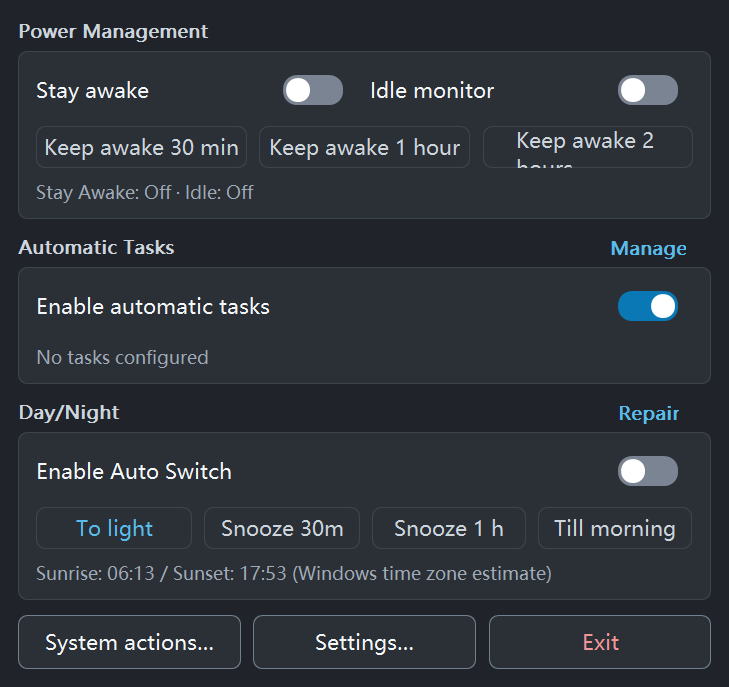
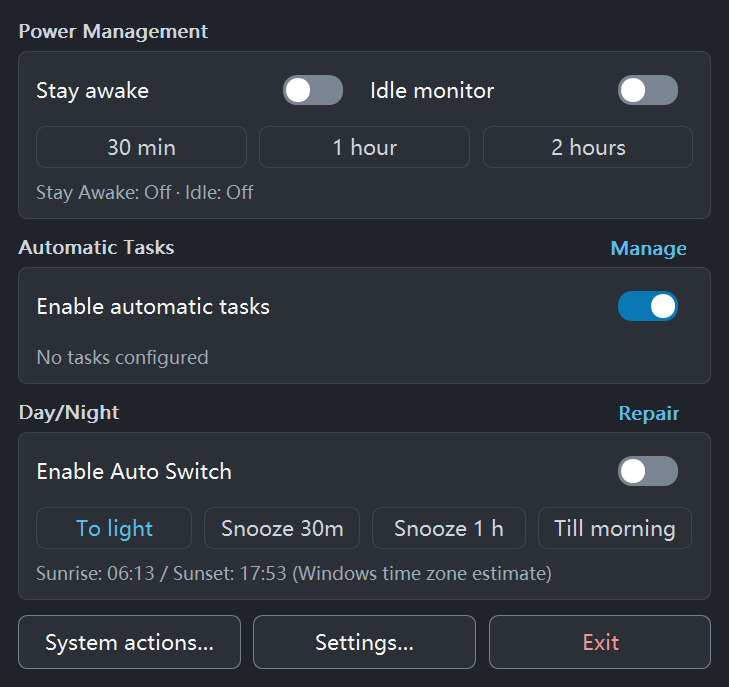
Fit UI strings on wide system fonts and polish both locales
Chinese Windows substitutes Microsoft YaHei UI for the message font,
whose Latin glyphs are much wider than Segoe UI, so several English
labels overflowed their fixed-width controls: the longest timed
stay-awake chip wrapped to two clipped lines, chip 1 sat at zero
margin, the settings nav tab ellipsized, the appearance restore
buttons wrapped, and every update-phase caption exceeded the
check-updates button.

- Timed chips drop the redundant "Keep awake" prefix; the update
  button widens 132->164 px so "Downloading 100%" fits; nav renames
  to "Notifications"; restore buttons to "Restore previous/default
  look..."; the appearance row label to "Image".
- Full wording pass over both locales: tooltips reference the real
  "No change" option instead of "leave empty"/"No linkage", drop
  developer jargon (overlay, armed, steer), fix the task-manager
  name clash, unify ellipses, checkbox noun style, hotkey verbs,
  and Chinese word order and spacing.
- devtools capture: settings-page switching now presents the layout
  after SWP_NOREDRAW visibility changes, so the walk no longer
  captures the first page five times.
- Refresh the English README screenshots with the fixed chips.

Changed region(s): [[0.0604, 0.1834, 0.332, 0.2445], [0.3621, 0.1834, 0.6337, 0.2445], [0.6941, 0.1834, 0.9053, 0.2445]]

diff --git a/apps/idletrigger/src/settings_ui.rs b/apps/idletrigger/src/settings_ui.rs
@@ -315,6 +315,11 @@ pub fn devtools_select_page(page: i32) {
     }
     PAGE.store(page, Ordering::SeqCst);
     apply_dependent_states(hwnd);
+    // Mirror the tab-click tail: visibility lands via SWP_NOREDRAW, so the
+    // swap needs an explicit present before a capture reads the window DC.
+    if unsafe { IsWindowVisible(hwnd).as_bool() } {
+        crate::present_layout(hwnd);
+    }
 }
 
 fn create() {
@@ -886,13 +891,14 @@ unsafe fn build_controls(hwnd: HWND, font: HFONT, section_font: HFONT, title_fon
         );
         // Manual check button: caption follows the updater phase (检查更新 →
         // 检查中… → 更新到 vX → 下载更新 N%), drawn on the card surface.
-        // Wider than the footer buttons: the phase captions ("Update to
-        // v9.9.9") must not wrap inside draw_button_label's word-break.
+        // Wider than the footer buttons: the phase captions ("Check for
+        // updates", "Downloading 100%") must not wrap inside
+        // draw_button_label's word-break on wide-Latin system fonts.
         push_button(
             hwnd,
             ID_APP_UPDATE_CHECK,
             &t_pub("menu_check_updates"),
-            (ROW_RIGHT - 132, 298, 132, BTN_H),
+            (ROW_RIGHT - 164, 298, 164, BTN_H),
         );
         // The about block is one quiet row, not a card: a 40px face around
         // a single link read as filler chrome.
